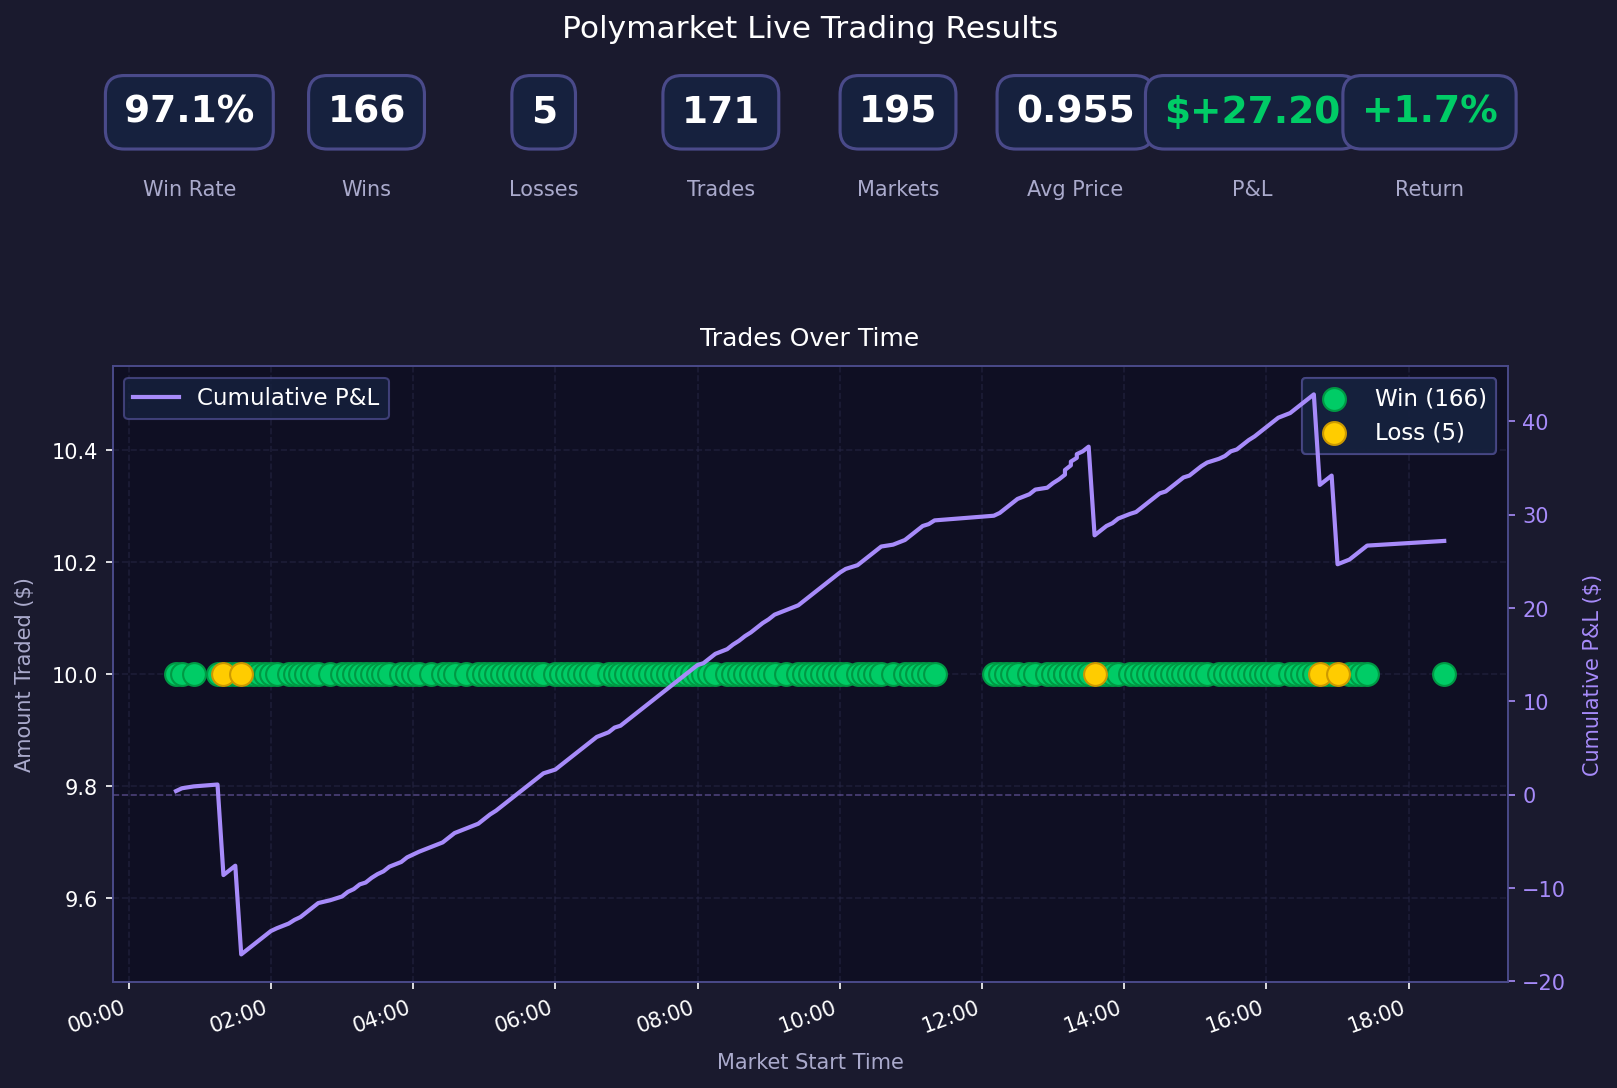
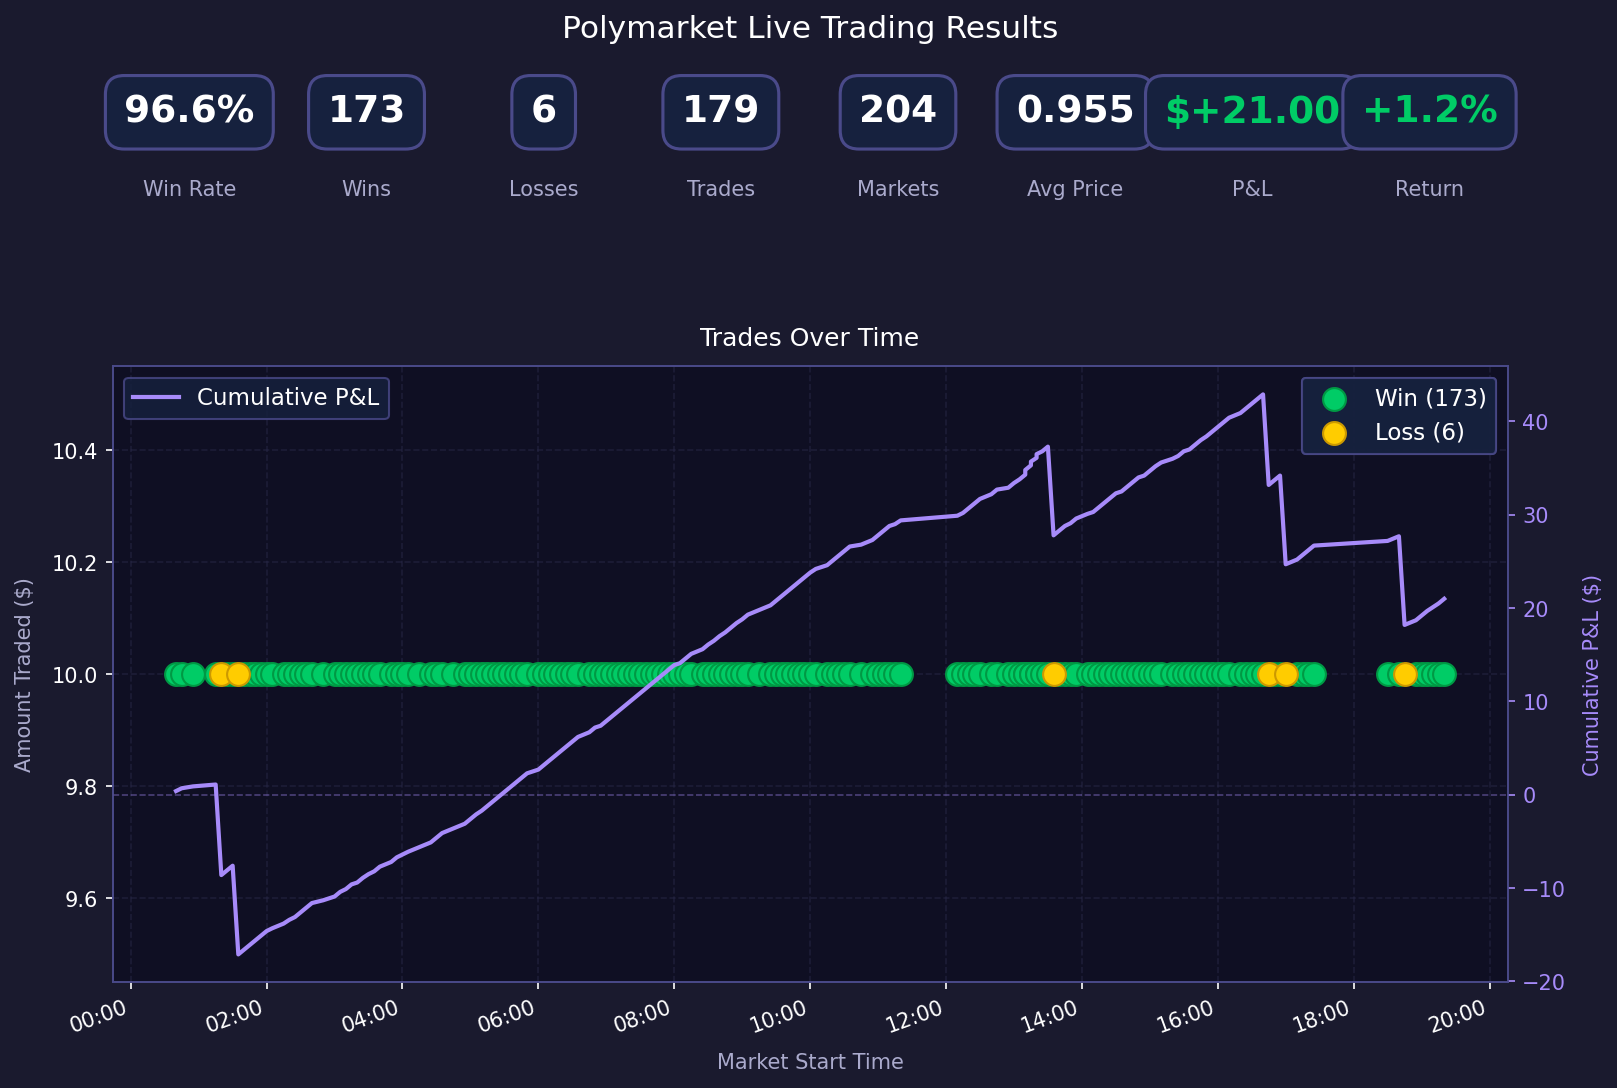
streamlit app has file editor and can view existing strategies
strategies need to be wired up and procfile needs to be edited and reloaded

diff --git a/pages/view_strategies.py b/pages/view_strategies.py
@@ -1,0 +1,68 @@
+import os
+from pathlib import Path
+
+import streamlit as st
+
+from strategy_editor_utils import DATA_DIR
+
+ENABLED_DIR = Path(DATA_DIR) / "enabled"
+ENABLED_DIR.mkdir(exist_ok=True)
+
+
+def enabled_path(filename: str) -> Path:
+    return ENABLED_DIR / filename.replace(".py", ".enabled")
+
+
+def is_enabled(filename: str) -> bool:
+    return enabled_path(filename).exists()
+
+
+def toggle_enabled(filename: str):
+    p = enabled_path(filename)
+    if p.exists():
+        p.unlink()
+    else:
+        p.touch()
+
+
+st.set_page_config(layout="wide")
+st.title("Strategies")
+
+files = sorted(f for f in os.listdir(DATA_DIR) if f.endswith(".py"))
+
+if not files:
+    st.info("No strategy files yet.")
+else:
+    if "selected_file" not in st.session_state:
+        st.session_state.selected_file = None
+
+    for f in files:
+        col_name, col_toggle = st.columns([6, 1])
+        with col_name:
+            btn_type = "primary" if f == st.session_state.selected_file else "secondary"
+            st.button(
+                f,
+                key=f"file_{f}",
+                type=btn_type,
+                on_click=lambda name=f: st.session_state.update(selected_file=name),
+            )
+        with col_toggle:
+            enabled = is_enabled(f)
+            label = "✅ Enabled" if enabled else "❌ Disabled"
+            if st.button(label, key=f"toggle_{f}"):
+                toggle_enabled(f)
+                st.rerun()
+
+    selected_file = st.session_state.selected_file
+    if selected_file:
+        path = os.path.join(DATA_DIR, selected_file)
+        with open(path, "r") as fh:
+            content = fh.read()
+        st.subheader(f"Viewing: {selected_file}")
+        st.code(content, language="python")
+
+        plot_path = Path("strategy_plots") / selected_file.replace(".py", ".png")
+        if plot_path.exists():
+            st.image(str(plot_path))
+        else:
+            st.info("Plot data not available yet. Please enable the strategy and come back in 10 minutes...")

diff --git a/pages/new_strategy.py b/pages/new_strategy.py
@@ -1,0 +1,47 @@
+import os
+
+import streamlit as st
+from streamlit_monaco import st_monaco
+
+from strategy_editor_utils import DATA_DIR, validate_strategy
+
+st.set_page_config(layout="wide")
+st.title("Add strategy")
+
+file_name = st.text_input("File name (no extension)")
+
+default_code = """from dataclasses import dataclass
+
+@dataclass
+class TradeConfig:
+    symbol: str
+    entry_price: float
+    stop_loss: float
+
+def run_strategy(config: TradeConfig):
+    print(f"Trading {config.symbol} at {config.entry_price}")
+"""
+
+code = st_monaco(
+    value=default_code,
+    language="python",
+    theme="vs-dark",
+    height="500px",
+)
+
+if st.button("💾 Save (Locked)"):
+    if not file_name.strip():
+        st.error("Please enter a file name")
+    else:
+        err = validate_strategy(code)
+        if err:
+            st.error(f"Strategy rejected: {err}")
+        else:
+            full_name = f"{file_name}.py"
+            path = os.path.join(DATA_DIR, full_name)
+            if os.path.exists(path):
+                st.error("File already exists ❌")
+            else:
+                with open(path, "w") as f:
+                    f.write(code)
+                st.success(f"Saved {full_name} ✅")

diff --git a/strategy_editor_utils.py b/strategy_editor_utils.py
@@ -1,0 +1,23 @@
+import os
+
+from RestrictedPython import compile_restricted
+from RestrictedPython.transformer import RestrictingNodeTransformer
+
+DATA_DIR = "strategy_files"
+os.makedirs(DATA_DIR, exist_ok=True)
+
+
+class StrategyPolicy(RestrictingNodeTransformer):
+    def visit_AnnAssign(self, node):
+        return self.node_contents_visit(node)
+
+
+def validate_strategy(code: str) -> str | None:
+    """Returns an error string if code is unsafe/invalid, else None."""
+    try:
+        compile_restricted(code, filename="<strategy>", mode="exec", policy=StrategyPolicy)
+    except SyntaxError as e:
+        return f"Syntax error: {e}"
+    except Exception as e:
+        return f"Validation error: {e}"
+    return None

diff --git a/plot.py b/plot.py
@@ -84,7 +84,7 @@ def plot(logfile: str, savefile: str, show=False):
         ("Losses", str(num_losses), "white"),
         ("Trades", str(num_trades), "white"),
         ("Markets", str(total_markets), "white"),
-        ("Avg Price", f"{avg_price:.3f}", "white"),
+        # ("Avg Price", f"{avg_price:.3f}", "white"),
         ("P&L", f"${total_pnl:+.2f}", pnl_color),
         ("Return", f"{pct_return:+.1f}%", pnl_color),
     ]

diff --git a/app.py b/app.py
@@ -1,0 +1,12 @@
+# app.py
+import streamlit as st
+
+st.set_page_config(layout="wide")
+
+pg = st.navigation(
+    [
+        st.Page("pages/view_strategies.py", title="Home"),
+        st.Page("pages/new_strategy.py", title="Add Strategy"),
+    ]
+)
+pg.run()

diff --git a/strategy_files/higher_buy_threshold.py b/strategy_files/higher_buy_threshold.py
@@ -1,0 +1,10 @@
+from dataclasses import dataclass
+
+@dataclass
+class TradeConfig:
+    symbol: str
+    entry_price: float
+    stop_loss: float
+
+def run_strategy(config: TradeConfig):
+    print(f"Trading {config.symbol} at {config.entry_price}")
